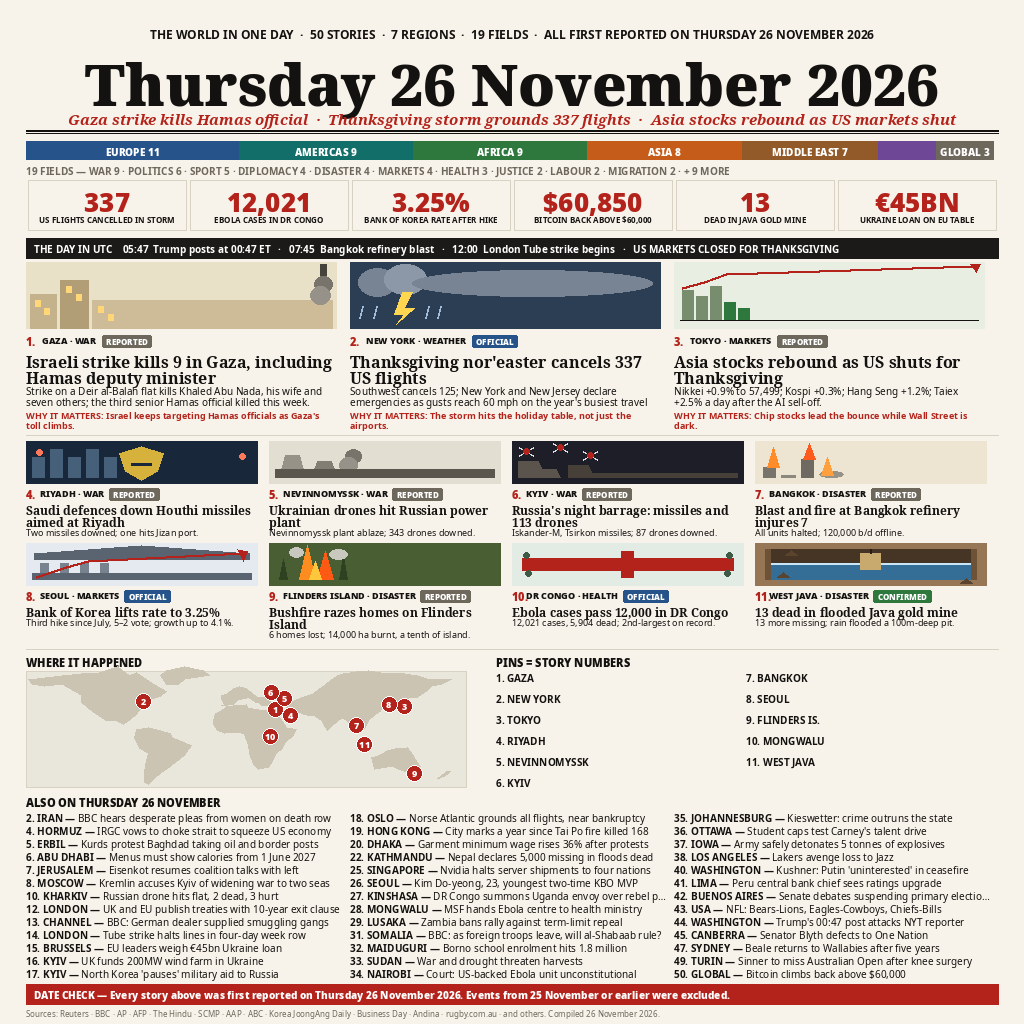
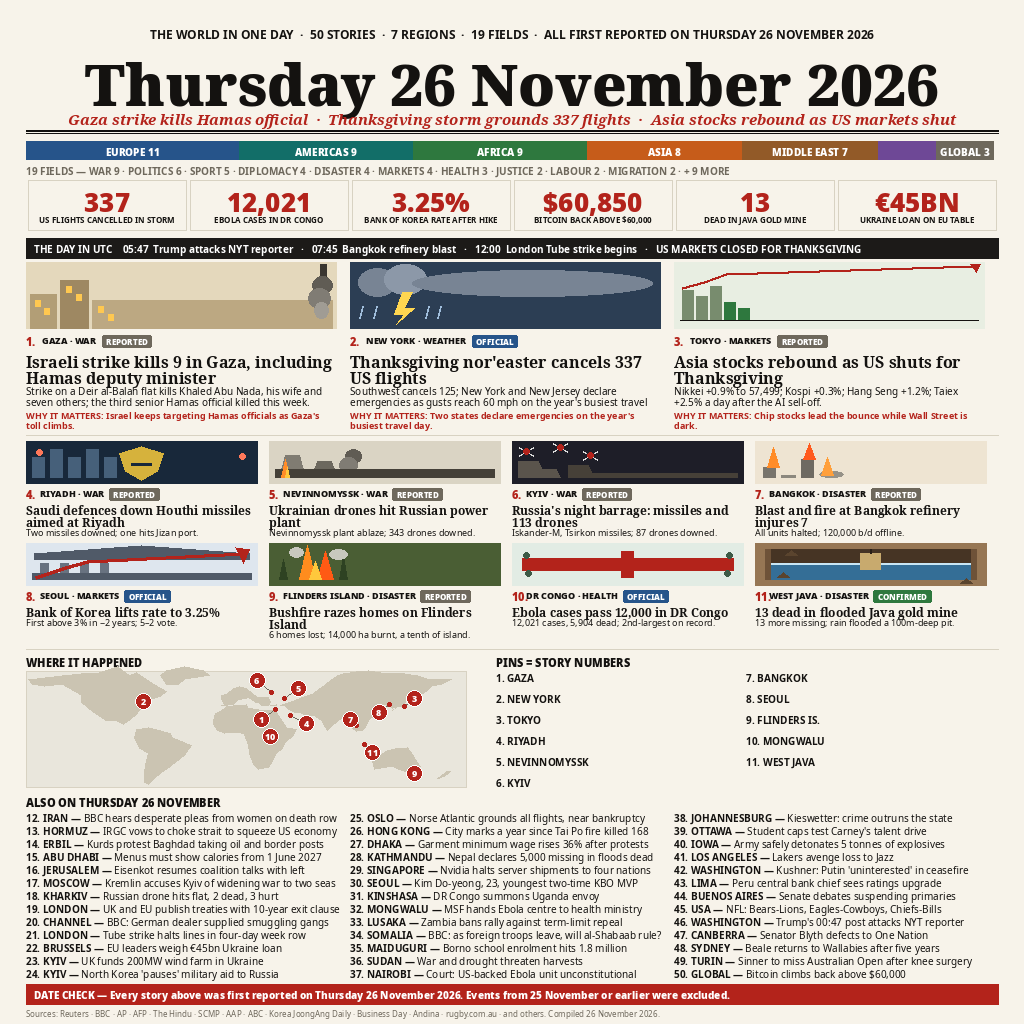
news-image-20261126 v2: fix map pin overlap, correct Korea deck, UTC-only timeline, unique story numbers 1-50

diff --git a/draw_news.py b/draw_news.py
@@ -1,9 +1,22 @@
 #!/usr/bin/env python3
-"""Draw the news-image-20261126 front page (1024x1024 PNG).
+"""Draw the news-image-20261126 front page, v2 (1024x1024 PNG).
 
 Fresh artwork for Thursday 26 November 2026: 50 stories, every one first
 reported that day (see ../news-list.md). Pure function of this file: no
 network, no clock, no randomness. Run: python3 draw_news.py
+
+v2 changes vs v1 (self-review round 1):
+- Map pins in the crowded Europe / Middle East cluster no longer overlap:
+  pins 1, 4, 5, 6 (and 3, 7, 8, 11) are drawn at small offsets with a thin
+  leader line back to their true location.
+- Mini #8 deck corrected: the rate hike was the first above 3% in about two
+  years ("Third hike since July" was not in the news list).
+- UTC strip now uses UTC times only (no "00:47 ET" mixed in).
+- Gaza city art and Nevinnomyssk plant art given more contrast; the plant
+  now shows a small flame (it was hit and ablaze); the bank art's red arrow
+  is thicker and the columns darker.
+- Two ALSO lines shortened so they no longer truncate with an ellipsis.
+- Lead #2 WHY line rewritten to a plain fact.
 """
 import os
 from PIL import Image, ImageDraw, ImageFont
@@ -86,17 +99,18 @@ def badge(d, x, y, text, fill):
 
 # ---------------------------------------------------------------- art pieces
 def art_city(d, x, y, w, h):
-    """Beige apartment blocks, one dark smoke column (Gaza)."""
-    d.rectangle([x, y, x + w, y + h], fill=(233, 224, 200))
-    d.rectangle([x + 4, y + h - 34, x + 30, y + h], fill=(196, 178, 140))
-    d.rectangle([x + 34, y + h - 48, x + 62, y + h], fill=(178, 158, 118))
-    d.rectangle([x + 66, y + h - 28, x + w - 4, y + h], fill=(206, 188, 152))
+    """Apartment blocks with a dark smoke column (Gaza)."""
+    d.rectangle([x, y, x + w, y + h], fill=(228, 216, 188))
+    d.rectangle([x + 4, y + h - 34, x + 30, y + h], fill=(178, 158, 118))
+    d.rectangle([x + 34, y + h - 48, x + 62, y + h], fill=(158, 136, 98))
+    d.rectangle([x + 66, y + h - 28, x + w - 4, y + h], fill=(188, 168, 130))
     for bx, by in [(9, h - 28), (18, h - 20), (40, h - 42), (50, h - 34),
                    (72, h - 22), (82, h - 14)]:
-        d.rectangle([x + bx, y + by, x + bx + 5, y + by + 6], fill=(255, 214, 120))
-    d.rectangle([x + w - 16, y + 2, x + w - 10, y + 18], fill=(70, 66, 60))
-    d.ellipse([x + w - 22, y + 14, x + w - 4, y + 30], fill=(120, 116, 108))
-    d.ellipse([x + w - 26, y + 24, x + w - 6, y + 42], fill=(150, 146, 138))
+        d.rectangle([x + bx, y + by, x + bx + 5, y + by + 6], fill=(255, 200, 80))
+    d.rectangle([x + w - 16, y + 2, x + w - 10, y + 20], fill=(58, 54, 48))
+    d.ellipse([x + w - 24, y + 14, x + w - 4, y + 32], fill=(96, 92, 84))
+    d.ellipse([x + w - 28, y + 26, x + w - 6, y + 46], fill=(128, 124, 116))
+    d.ellipse([x + w - 22, y + 40, x + w - 8, y + 56], fill=(160, 156, 148))
 
 
 def art_storm(d, x, y, w, h):
@@ -143,16 +157,20 @@ def art_shield(d, x, y, w, h):
 
 
 def art_plant(d, x, y, w, h):
-    """Power plant with cooling towers and smoke (Nevinnomyssk)."""
-    d.rectangle([x, y, x + w, y + h], fill=(226, 222, 210))
+    """Power plant with cooling towers, smoke and a flame (Nevinnomyssk)."""
+    d.rectangle([x, y, x + w, y + h], fill=(218, 212, 196))
     d.polygon([(x + 10, y + h - 6), (x + 16, y + 14), (x + 30, y + 14),
-               (x + 36, y + h - 6)], fill=(150, 146, 136))
+               (x + 36, y + h - 6)], fill=(128, 124, 114))
     d.polygon([(x + 42, y + h - 6), (x + 48, y + 20), (x + 62, y + 20),
-               (x + 68, y + h - 6)], fill=(130, 126, 116))
-    d.rectangle([x + 74, y + 26, x + 80, y + h - 6], fill=(110, 106, 98))
-    d.ellipse([x + 76, y + 8, x + 92, y + 22], fill=(120, 116, 108))
-    d.ellipse([x + 70, y + 16, x + 88, y + 32], fill=(150, 146, 138))
-    d.rectangle([x + 6, y + h - 14, x + w - 6, y + h - 6], fill=(90, 86, 78))
+               (x + 68, y + h - 6)], fill=(108, 104, 94))
+    d.rectangle([x + 74, y + 26, x + 80, y + h - 6], fill=(88, 84, 76))
+    d.ellipse([x + 76, y + 8, x + 92, y + 22], fill=(96, 92, 84))
+    d.ellipse([x + 70, y + 16, x + 88, y + 32], fill=(128, 124, 116))
+    d.rectangle([x + 6, y + h - 14, x + w - 6, y + h - 6], fill=(68, 64, 56))
+    d.polygon([(x + 12, y + h - 6), (x + 16, y + h - 24), (x + 20, y + h - 6)],
+              fill=(255, 140, 40))
+    d.polygon([(x + 16, y + h - 6), (x + 18, y + h - 16), (x + 20, y + h - 6)],
+              fill=(255, 200, 60))
 
 
 def art_drones(d, x, y, w, h):
@@ -162,9 +180,6 @@ def art_drones(d, x, y, w, h):
         d.line([(x + dx - 7, y + dy - 4), (x + dx + 7, y + dy + 4)], fill=(220, 220, 220), width=2)
         d.line([(x + dx - 7, y + dy + 4), (x + dx + 7, y + dy - 4)], fill=(220, 220, 220), width=2)
         d.ellipse([x + dx - 3, y + dy - 3, x + dx + 3, y + dy + 3], fill=RED)
-    for i in range(4):
-        d.line([(x + 8 + i * 4, y + h - 22), (x + 8 + i * 4, y + h - 22)],
-               fill=(0, 0, 0), width=0)
     d.polygon([(x + 6, y + h - 6), (x + 6, y + h - 22), (x + 26, y + h - 22),
                (x + 30, y + h - 14), (x + 44, y + h - 14), (x + 48, y + h - 6)],
               fill=(90, 84, 76))
@@ -186,17 +201,17 @@ def art_refinery(d, x, y, w, h):
 
 
 def art_bank(d, x, y, w, h):
-    """Bank columns with a rising red arrow (Korea rate hike)."""
-    d.rectangle([x, y, x + w, y + h], fill=(228, 234, 240))
+    """Bank columns with a thick rising red arrow (Korea rate hike)."""
+    d.rectangle([x, y, x + w, y + h], fill=(222, 230, 238))
     d.polygon([(x + 8, y + 10), (x + w // 2, y + 2), (x + w - 8, y + 10),
-               (x + w - 8, y + 16), (x + 8, y + 16)], fill=(90, 100, 112))
+               (x + w - 8, y + 16), (x + 8, y + 16)], fill=(80, 90, 104))
     for cx in (14, 34, 54, 74):
-        d.rectangle([x + cx, y + 20, x + cx + 8, y + h - 12], fill=(120, 130, 142))
-    d.rectangle([x + 6, y + h - 12, x + w - 6, y + h - 6], fill=(90, 100, 112))
+        d.rectangle([x + cx, y + 20, x + cx + 8, y + h - 12], fill=(104, 114, 128))
+    d.rectangle([x + 6, y + h - 12, x + w - 6, y + h - 6], fill=(80, 90, 104))
     d.line([(x + 10, y + h - 8), (x + 40, y + h - 18), (x + 62, y + h - 24),
-            (x + w - 14, y + h - 32)], fill=RED, width=3)
-    d.polygon([(x + w - 20, y + h - 36), (x + w - 10, y + h - 34),
-               (x + w - 14, y + h - 24)], fill=RED)
+            (x + w - 14, y + h - 32)], fill=RED, width=4)
+    d.polygon([(x + w - 22, y + h - 38), (x + w - 8, y + h - 36),
+               (x + w - 14, y + h - 22)], fill=RED)
 
 
 def art_fire(d, x, y, w, h):
@@ -297,6 +312,10 @@ PINS = {1: (34.5, 31.5), 2: (-74.0, 40.7), 3: (139.7, 35.7), 4: (46.7, 24.6),
 PIN_PLACES = {1: "GAZA", 2: "NEW YORK", 3: "TOKYO", 4: "RIYADH",
               5: "NEVINNOMYSSK", 6: "KYIV", 7: "BANGKOK", 8: "SEOUL",
               9: "FLINDERS IS.", 10: "MONGWALU", 11: "WEST JAVA"}
+# v2: pins that would overlap at this scale are drawn at a small pixel
+# offset, with a thin leader line back to their true location.
+PIN_OFFSETS = {1: (-14, 10), 3: (10, -8), 4: (16, 8), 5: (14, -10),
+               6: (-14, -12), 7: (-6, -6), 8: (-10, 8), 11: (8, 8)}
 
 
 def draw_map(d, x, y, w, h):
@@ -314,12 +333,17 @@ def draw_map(d, x, y, w, h):
     nf = font(SANS_BLACK, 9)
     for num, (lon, lat) in PINS.items():
         px, py = proj(lon, lat)
+        dx, dy = PIN_OFFSETS.get(num, (0, 0))
+        cx, cy = px + dx, py + dy
+        if (dx, dy) != (0, 0):
+            d.line([(px, py), (cx, cy)], fill=GREY, width=1)
+            d.ellipse([px - 2, py - 2, px + 2, py + 2], fill=RED)
         r = 8
-        d.ellipse([px - r, py - r, px + r, py + r], fill=RED,
+        d.ellipse([cx - r, cy - r, cx + r, cy + r], fill=RED,
                   outline=(255, 255, 255), width=1)
         t = str(num)
         tw = nf.getlength(t)
-        d.text((px - tw / 2, py - 6.5), t, font=nf, fill=(255, 255, 255))
+        d.text((cx - tw / 2, cy - 6.5), t, font=nf, fill=(255, 255, 255))
 
 
 # ---------------------------------------------------------------- content
@@ -333,7 +357,7 @@ LEADS = [
          head="Thanksgiving nor'easter cancels 337 US flights",
          deck="Southwest cancels 125; New York and New Jersey declare emergencies "
               "as gusts reach 60 mph on the year's busiest travel day.",
-         why="WHY IT MATTERS: The storm hits the holiday table, not just the airports."),
+         why="WHY IT MATTERS: Two states declare emergencies on the year's busiest travel day."),
     dict(num=3, kick="TOKYO · MARKETS", status=("REPORTED", GREY), art=art_chart,
          head="Asia stocks rebound as US shuts for Thanksgiving",
          deck="Nikkei +0.9% to 57,499; Kospi +0.3%; Hang Seng +1.2%; Taiex +2.5% "
@@ -356,7 +380,7 @@ MINIS = [
          deck="All units halted; 120,000 b/d offline."),
     dict(num=8, kick="SEOUL · MARKETS", status=("OFFICIAL", BLUE), art=art_bank,
          head="Bank of Korea lifts rate to 3.25%",
-         deck="Third hike since July, 5–2 vote; growth up to 4.1%."),
+         deck="First above 3% in ~2 years; 5–2 vote."),
     dict(num=9, kick="FLINDERS ISLAND · DISASTER", status=("REPORTED", GREY), art=art_fire,
          head="Bushfire razes homes on Flinders Island",
          deck="6 homes lost; 14,000 ha burnt, a tenth of island."),
@@ -368,45 +392,49 @@ MINIS = [
          deck="13 more missing; rain flooded a 100m-deep pit."),
 ]
 
-# remaining 39 stories, news-list order: (number, place, one-line text)
+
+# remaining 39 stories, renumbered 12-50 in news-list order (v2 fix: the
+# v1 ALSO list kept the original news-list numbers, so 2, 4, 5, 6, 7, 8 and
+# 10 each named two different stories; now every story has exactly one
+# number 1-50, as in the 25 November v2).
 ALSO = [
-    (2, "IRAN", "BBC hears desperate pleas from women on death row"),
-    (4, "HORMUZ", "IRGC vows to choke strait to squeeze US economy"),
-    (5, "ERBIL", "Kurds protest Baghdad taking oil and border posts"),
-    (6, "ABU DHABI", "Menus must show calories from 1 June 2027"),
-    (7, "JERUSALEM", "Eisenkot resumes coalition talks with left"),
-    (8, "MOSCOW", "Kremlin accuses Kyiv of widening war to two seas"),
-    (10, "KHARKIV", "Russian drone hits flat, 2 dead, 3 hurt"),
-    (12, "LONDON", "UK and EU publish treaties with 10-year exit clause"),
-    (13, "CHANNEL", "BBC: German dealer supplied smuggling gangs"),
-    (14, "LONDON", "Tube strike halts lines in four-day week row"),
-    (15, "BRUSSELS", "EU leaders weigh €45bn Ukraine loan"),
-    (16, "KYIV", "UK funds 200MW wind farm in Ukraine"),
-    (17, "KYIV", "North Korea 'pauses' military aid to Russia"),
-    (18, "OSLO", "Norse Atlantic grounds all flights, near bankruptcy"),
-    (19, "HONG KONG", "City marks a year since Tai Po fire killed 168"),
-    (20, "DHAKA", "Garment minimum wage rises 36% after protests"),
-    (22, "KATHMANDU", "Nepal declares 5,000 missing in floods dead"),
-    (25, "SINGAPORE", "Nvidia halts server shipments to four nations"),
-    (26, "SEOUL", "Kim Do-yeong, 23, youngest two-time KBO MVP"),
-    (27, "KINSHASA", "DR Congo summons Uganda envoy over rebel post"),
-    (28, "MONGWALU", "MSF hands Ebola centre to health ministry"),
-    (29, "LUSAKA", "Zambia bans rally against term-limit repeal"),
-    (31, "SOMALIA", "BBC: as foreign troops leave, will al-Shabaab rule?"),
-    (32, "MAIDUGURI", "Borno school enrolment hits 1.8 million"),
-    (33, "SUDAN", "War and drought threaten harvests"),
-    (34, "NAIROBI", "Court: US-backed Ebola unit unconstitutional"),
-    (35, "JOHANNESBURG", "Kieswetter: crime outruns the state"),
-    (36, "OTTAWA", "Student caps test Carney's talent drive"),
-    (37, "IOWA", "Army safely detonates 5 tonnes of explosives"),
-    (38, "LOS ANGELES", "Lakers avenge loss to Jazz"),
-    (40, "WASHINGTON", "Kushner: Putin 'uninterested' in ceasefire"),
-    (41, "LIMA", "Peru central bank chief sees ratings upgrade"),
-    (42, "BUENOS AIRES", "Senate debates suspending primary elections"),
-    (43, "USA", "NFL: Bears-Lions, Eagles-Cowboys, Chiefs-Bills"),
-    (44, "WASHINGTON", "Trump's 00:47 post attacks NYT reporter"),
-    (45, "CANBERRA", "Senator Blyth defects to One Nation"),
-    (47, "SYDNEY", "Beale returns to Wallabies after five years"),
+    (12, "IRAN", "BBC hears desperate pleas from women on death row"),
+    (13, "HORMUZ", "IRGC vows to choke strait to squeeze US economy"),
+    (14, "ERBIL", "Kurds protest Baghdad taking oil and border posts"),
+    (15, "ABU DHABI", "Menus must show calories from 1 June 2027"),
+    (16, "JERUSALEM", "Eisenkot resumes coalition talks with left"),
+    (17, "MOSCOW", "Kremlin accuses Kyiv of widening war to two seas"),
+    (18, "KHARKIV", "Russian drone hits flat, 2 dead, 3 hurt"),
+    (19, "LONDON", "UK and EU publish treaties with 10-year exit clause"),
+    (20, "CHANNEL", "BBC: German dealer supplied smuggling gangs"),
+    (21, "LONDON", "Tube strike halts lines in four-day week row"),
+    (22, "BRUSSELS", "EU leaders weigh €45bn Ukraine loan"),
+    (23, "KYIV", "UK funds 200MW wind farm in Ukraine"),
+    (24, "KYIV", "North Korea 'pauses' military aid to Russia"),
+    (25, "OSLO", "Norse Atlantic grounds all flights, near bankruptcy"),
+    (26, "HONG KONG", "City marks a year since Tai Po fire killed 168"),
+    (27, "DHAKA", "Garment minimum wage rises 36% after protests"),
+    (28, "KATHMANDU", "Nepal declares 5,000 missing in floods dead"),
+    (29, "SINGAPORE", "Nvidia halts server shipments to four nations"),
+    (30, "SEOUL", "Kim Do-yeong, 23, youngest two-time KBO MVP"),
+    (31, "KINSHASA", "DR Congo summons Uganda envoy"),
+    (32, "MONGWALU", "MSF hands Ebola centre to health ministry"),
+    (33, "LUSAKA", "Zambia bans rally against term-limit repeal"),
+    (34, "SOMALIA", "BBC: as foreign troops leave, will al-Shabaab rule?"),
+    (35, "MAIDUGURI", "Borno school enrolment hits 1.8 million"),
+    (36, "SUDAN", "War and drought threaten harvests"),
+    (37, "NAIROBI", "Court: US-backed Ebola unit unconstitutional"),
+    (38, "JOHANNESBURG", "Kieswetter: crime outruns the state"),
+    (39, "OTTAWA", "Student caps test Carney's talent drive"),
+    (40, "IOWA", "Army safely detonates 5 tonnes of explosives"),
+    (41, "LOS ANGELES", "Lakers avenge loss to Jazz"),
+    (42, "WASHINGTON", "Kushner: Putin 'uninterested' in ceasefire"),
+    (43, "LIMA", "Peru central bank chief sees ratings upgrade"),
+    (44, "BUENOS AIRES", "Senate debates suspending primaries"),
+    (45, "USA", "NFL: Bears-Lions, Eagles-Cowboys, Chiefs-Bills"),
+    (46, "WASHINGTON", "Trump's 00:47 post attacks NYT reporter"),
+    (47, "CANBERRA", "Senator Blyth defects to One Nation"),
+    (48, "SYDNEY", "Beale returns to Wallabies after five years"),
     (49, "TURIN", "Sinner to miss Australian Open after knee surgery"),
     (50, "GLOBAL", "Bitcoin climbs back above $60,000"),
 ]
@@ -490,9 +518,9 @@ def build():
                    ln, font=f_lab, fill=INK)
     y += strip_h + 8
 
-    # 5. UTC strip
+    # 5. UTC strip (all times UTC)
     f_utc = font(SANS_BOLD, 10)
-    utc = ("THE DAY IN UTC    05:47  Trump posts at 00:47 ET   ·   07:45  "
+    utc = ("THE DAY IN UTC    05:47  Trump attacks NYT reporter   ·   07:45  "
            "Bangkok refinery blast   ·   12:00  London Tube strike begins   ·   "
            "US MARKETS CLOSED FOR THANKSGIVING")
     d.rectangle([M, y, M + CW, y + 20], fill=DARK)

diff --git a/main.py b/main.py
@@ -1,10 +1,10 @@
 #!/usr/bin/env python3
 """Entry program for make.fun news-image-20261126 (Python 3.13, stdlib only).
 
-The front page is pre-rendered and committed beside this file as
-``entry.png``.  This program places an exact copy of it at
+The front page is pre-rendered and committed next to this file as
+``entry.png``. This program copies it byte for byte to
 ``$MAKEFUN_OUTPUT_DIR/entry.png`` (or ``/output/entry.png`` when the
-variable is unset), so repeated runs are byte-identical by construction.
+variable is not set), so every run writes the same bytes.
 """
 
 import os
